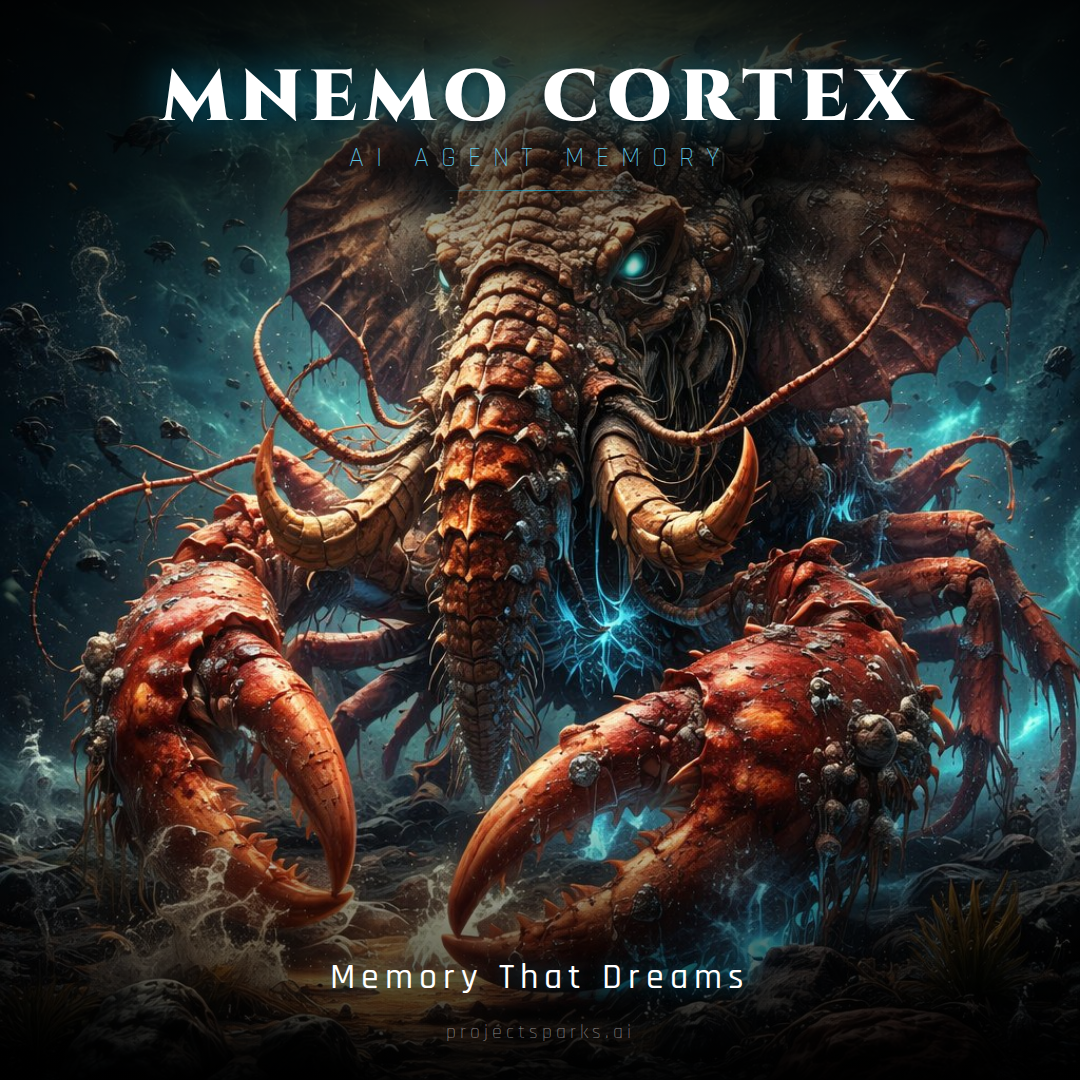
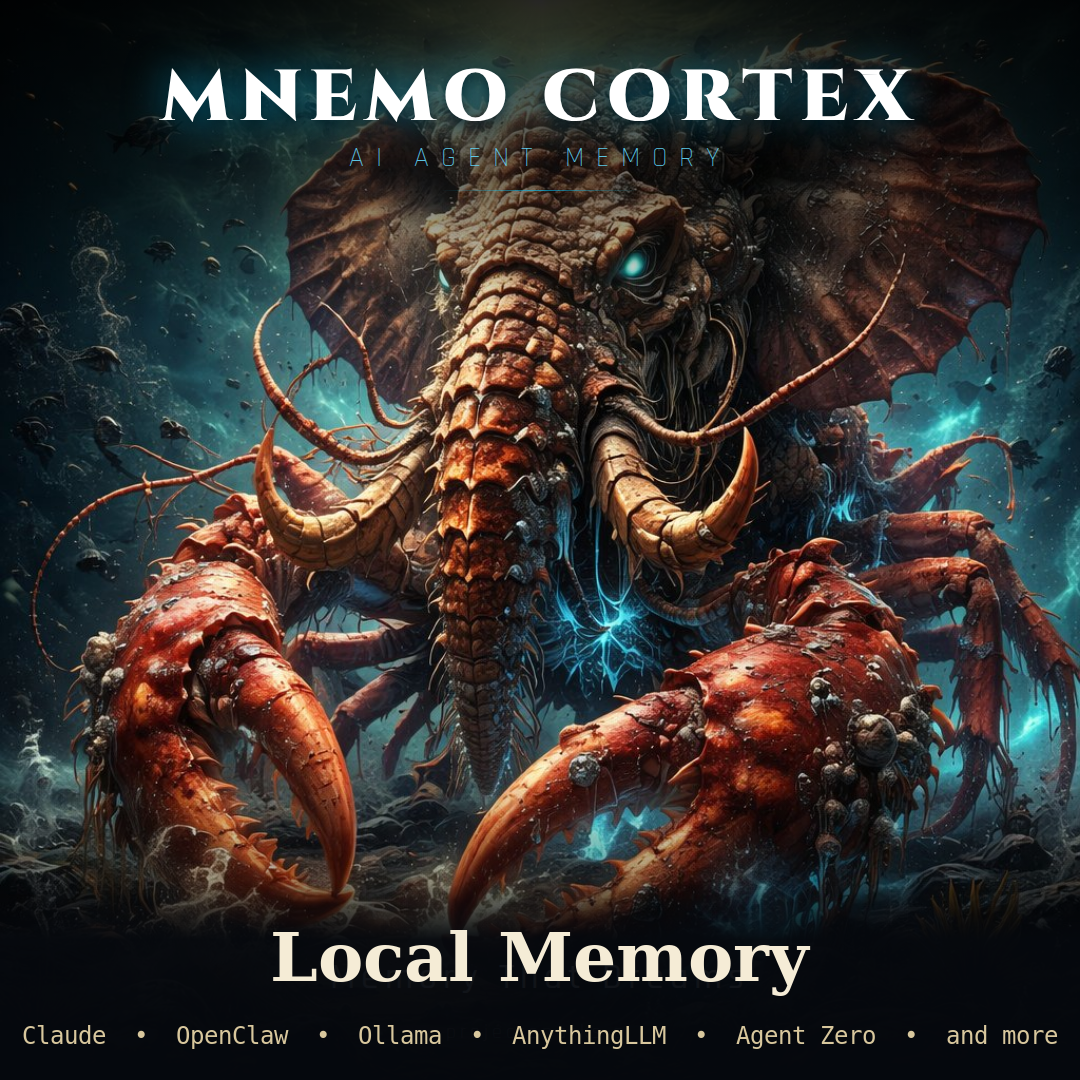
docs: update hero card — Local Memory + local-LLM platform list
New tagline replaces 'Memory That Dreams' with 'Local Memory' and a small
platform list: Claude, OpenClaw, Ollama, AnythingLLM, Agent Zero, and more.
Same lobster/dragon art. Alt text updated to match.

diff --git a/README.md b/README.md
@@ -1,5 +1,5 @@
 <p align="center">
-  <img src="docs/mnemo-cortex-card-v1.png" alt="Mnemo Cortex — Memory That Dreams" width="480">
+  <img src="docs/mnemo-cortex-card-v1.png" alt="Mnemo Cortex — Local Memory for Claude, OpenClaw, Ollama, AnythingLLM, Agent Zero, and more" width="480">
 </p>
 
 # ⚡ Mnemo Cortex v2.6.0
